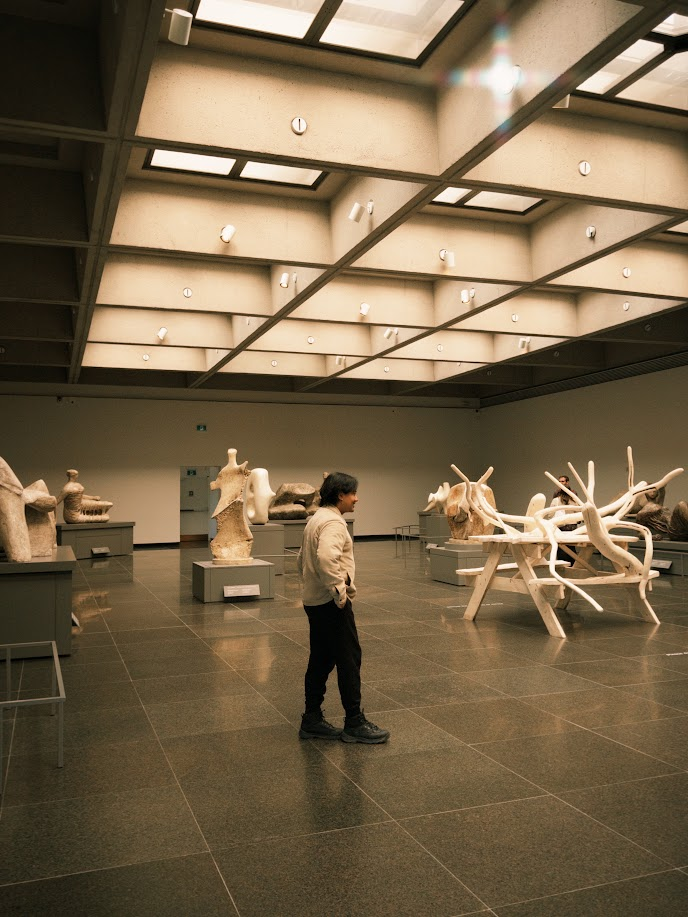
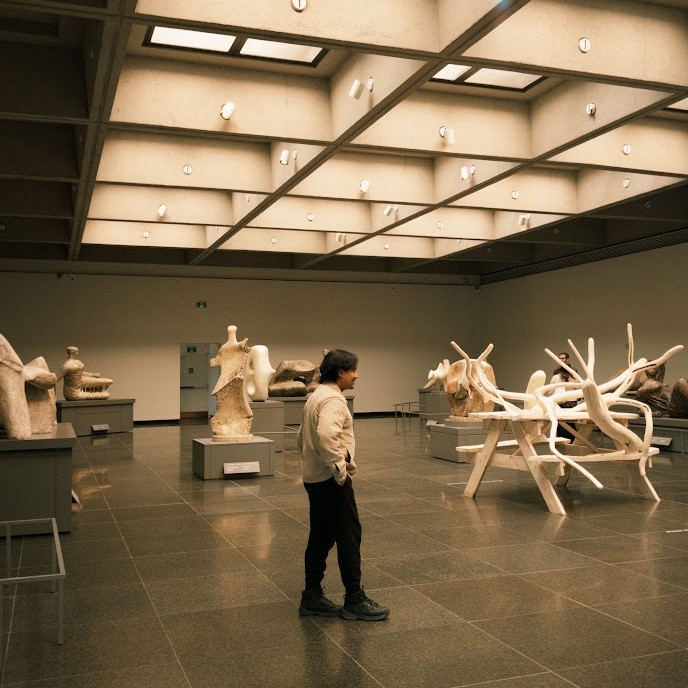
update picture

diff --git a/index.html b/index.html
@@ -229,7 +229,7 @@
             </div>
 
             <div class="right-flex">
-                <img src="./img/txp03.jpg" alt="pp-nischalpradhan">
+                <img src="./img/fxn01.jpg" alt="pp-nischalpradhan">
             </div>
         </div>
     </section>